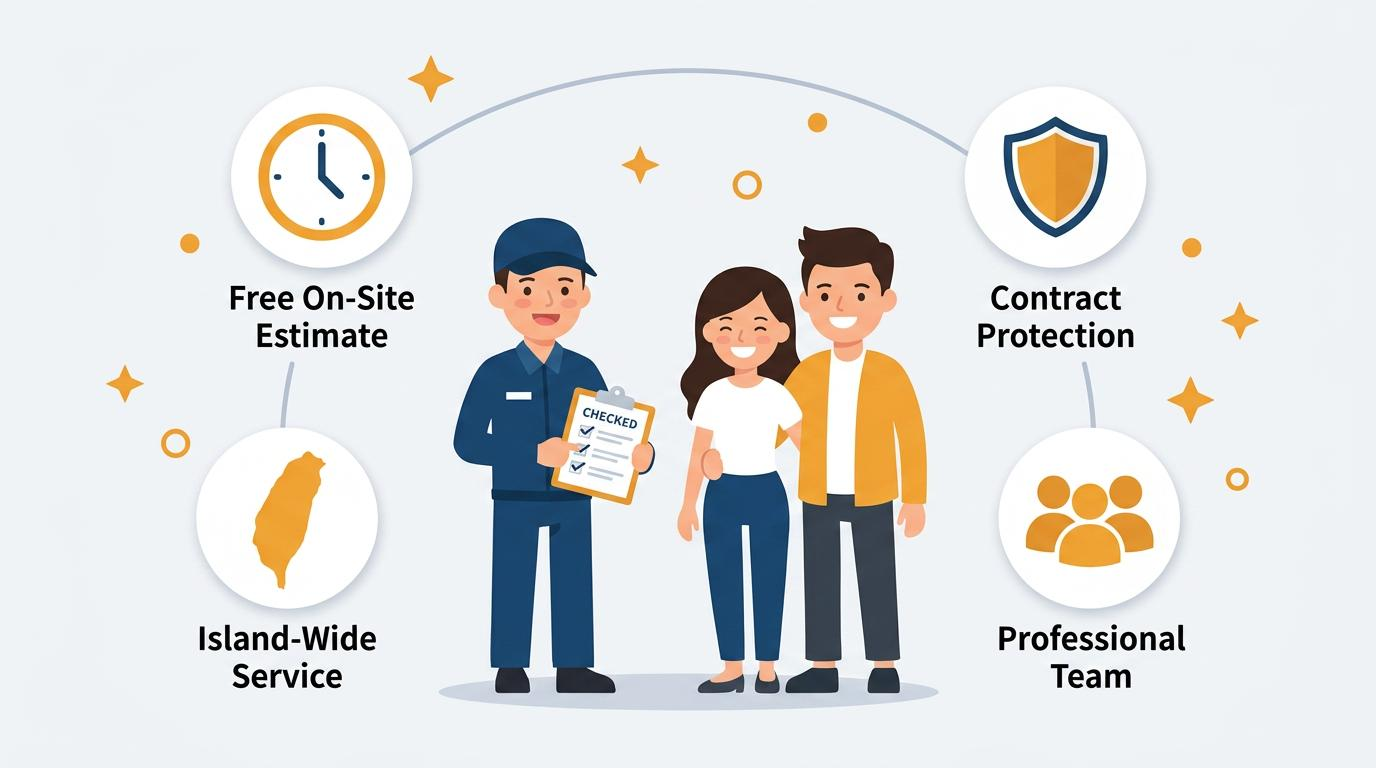
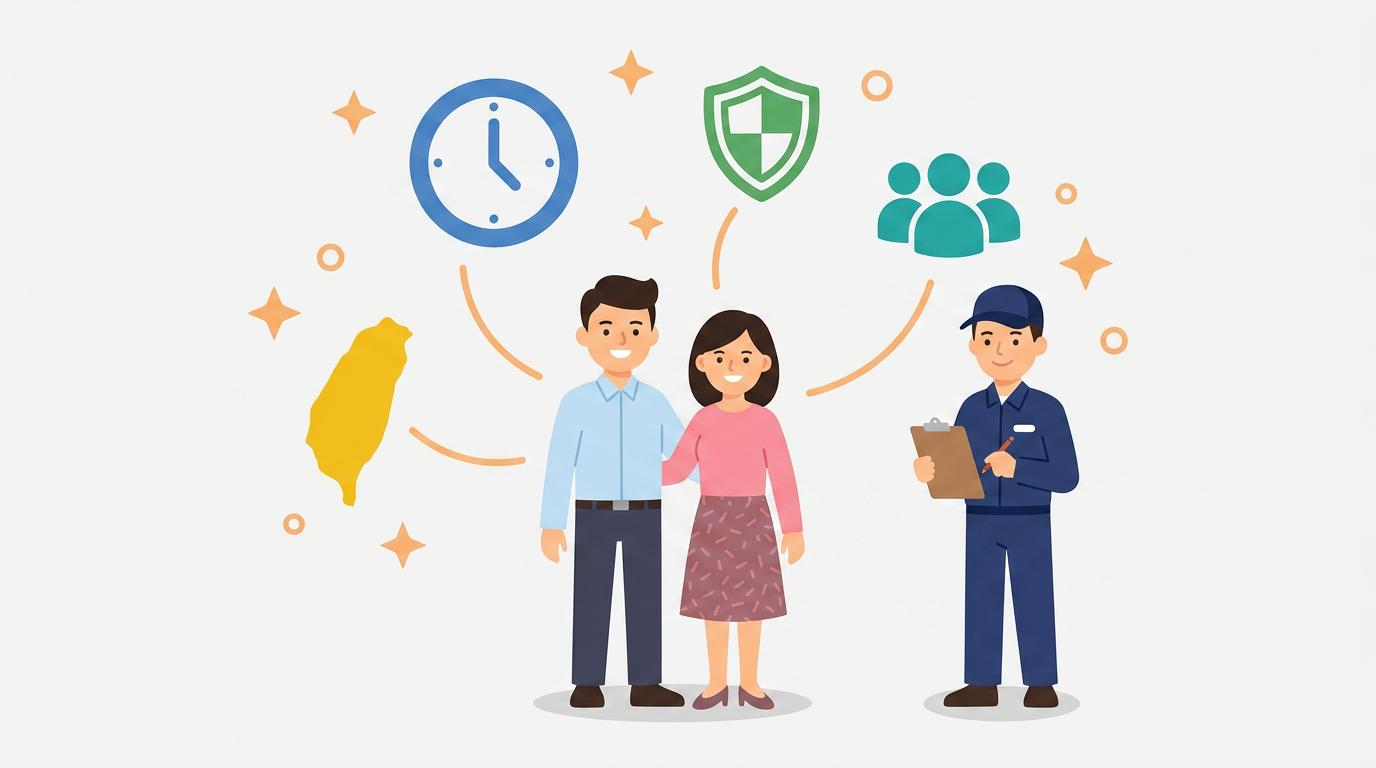
fix: all images regenerated with traditional Chinese text only
- Replaced all English text in images with traditional Chinese
- 16 flat vector illustrations, all text in 繁體中文
- Updated posts.ts: all 6 blog articles have image paths

diff --git a/src/data/posts.ts b/src/data/posts.ts
@@ -14,6 +14,7 @@ export const posts: Record<string, Post> = {
     date: '2024-03-15',
     category: '搬家知識',
     readTime: '5 分鐘',
+    image: '/images/blog-packing.jpg',
     excerpt: '搬家總是讓人頭痛嗎？掌握這10個打包技巧，讓您的搬家過程更輕鬆順利',
     content: `
       <p>搬家總是讓人感到壓力山大嗎？別擔心！只要掌握正確的打包技巧，搬家也可以變得輕鬆有效率。以下是煜欣搬家多年經驗總結出的10個實用打包技巧：</p>
@@ -44,6 +45,7 @@ export const posts: Record<string, Post> = {
     date: '2024-03-10',
     category: '費用指南',
     readTime: '6 分鐘',
+    image: '/images/blog-cost.jpg',
     excerpt: '搬家費用受多種因素影響，包括距離、樓層、物品數量等',
     content: `
       <p>很多人在搬家前最關心的問題就是「搬家要多少錢？」其實搬家費用受多種因素影響，本文為您詳細解析搬家費用的計算方式。</p>
